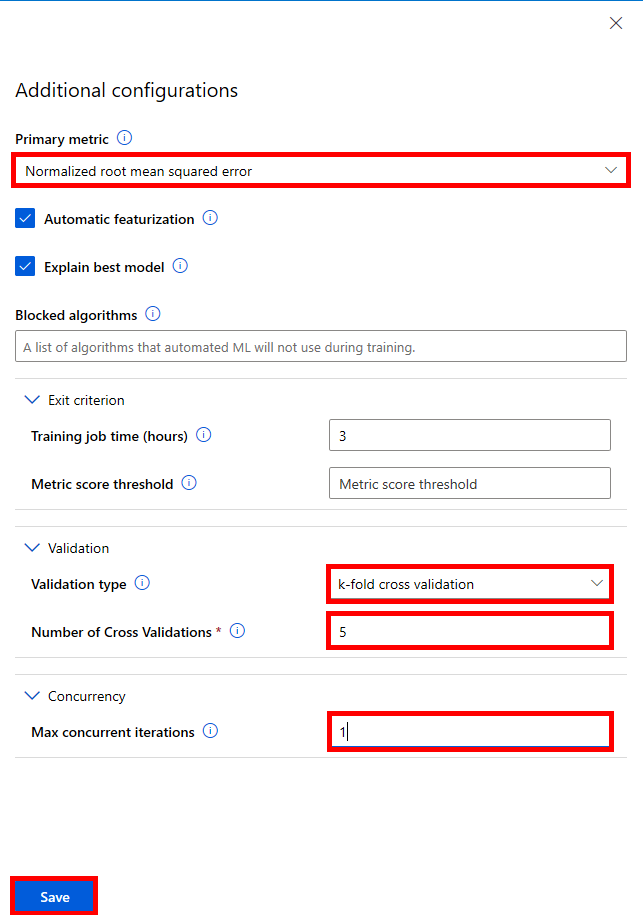
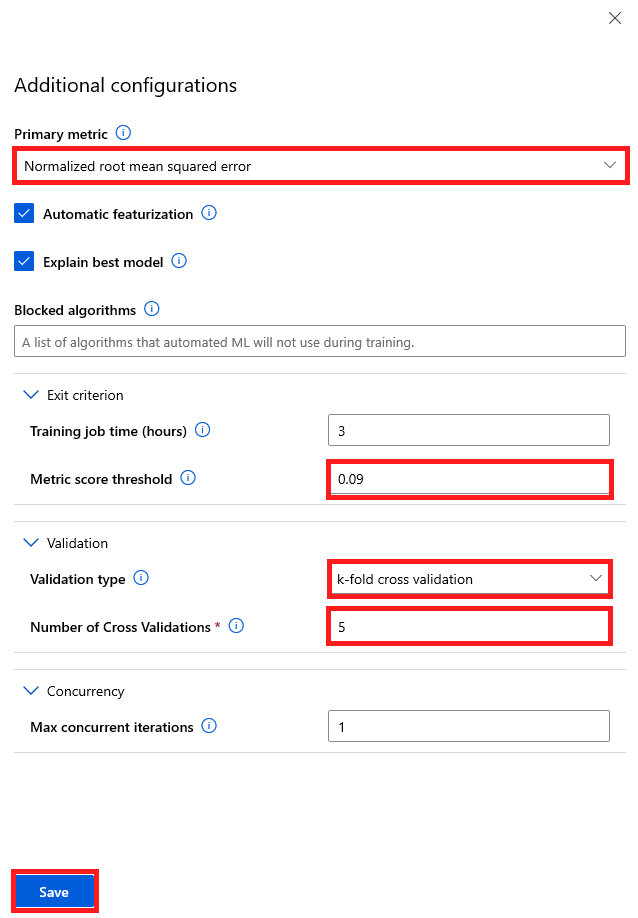
Consolidated Exercise 1 in ai experiment 3

diff --git a/ai-exp3/README.md b/ai-exp3/README.md
@@ -72,7 +72,7 @@ In this exercise, you will create a model that predicts battery failure from tim
    
    ![Confirm dataset creation](./media/007_ConfirmDataset.png)
 
-8) Now, you should be able to select the newly created dataset for your experiment. Select your newly created dataset and click **Next** to move to the experiment details page.
+8) Now, you should be able to select the newly created dataset for your experiment. Select the `targeting-formatted-dataset` and click **Next** to move to the experiment details page.
 
    ![Select the dataset](./media/008_SelectDataset.png)
 
@@ -91,12 +91,13 @@ In this exercise, you will create a model that predicts battery failure from tim
 11) Click **View additional configuration settings** to open advanced settings section. Provide the following settings:
 
    - Primary metric: **Normalized root mean squared error**
+   - Exit criterion > Metric score threashold: **0.07**
    - Validation > Validation type: **k-fold cross validation**
    - Validation > Number of Cross Validations: **5**
    - Concurency > Max concurrent iterations: **1**
     ![Configuring the Advanced Settings as described](./media/011_TaskConfigurationSettings.png)
 
-12) Select **Save** and **Finish** to run the experiment and begin automated machine learning process. 
+12) Select **Save** and then **Finish** to run the experiment and begin the automated machine learning process. 
 
     ![Start Automate ML run](./media/012_CreatingExperiment.png)
 
@@ -106,27 +107,42 @@ In this exercise, you will create a model that predicts battery failure from tim
 
 ### Task 2: Review the experiment run results
 
-1. The experiment will run for about _10 minutes_. Once it completes you should examine the chart to observe the model performance for the primary metric for different iterations.
+1. The experiment will run for about _15 minutes_. Once it completes you should check the `Models` tab on the `Run Detail` page to observe the model performance for the primary metric for different runs.
 
-   ![Review run details - graph view](./media/09_ReviewRunDetails_1.png)
+   ![Review run details - graph view](./media/021_RunDetails1.png)
 
-2. Scroll down to see a table view of different iterations and select the iteration with the best **normalized root mean square error** score. Note that the normalized root mean square error measures the error between the predicted value and actual value. In this case, the model with the lowest normalized root mean square error is the best model.
+2. In the table view of different models, notice at the top the iteration with the best **normalized root mean square error** score. Note that the normalized root mean square error measures the error between the predicted value and actual value. In this case, the model with the lowest normalized root mean square error is the best model.
 
-   ![Review run details - table view](./media/010_ReviewRunDetails_2.png)
+   ![Review run details - table view](./media/022_RunDetails2.png)
+
+3. Select **Experiments** on the left navigation pane and select the experiment `automl-regression` to see the list of available runs.
+
+   ![Open experiment runs table](./media/023_CheckExperimentRuns.png)
+
+4. Select the option to **Include child runs** to be able to examine  model performance for the primary metric of different runs. By default, the left chart describes the `mean_absolute_error` value for each run. Click on the pen icon on the right corner of the mean_absolute_error chart to configure the `normalized_root_mean_square_error` metric representation.
+
+   ![Review runs - chart view](./media/024_IncludeChildRuns.png)
+
 
 ### Task 3: Register the Best Model
 
-1. Return to the top of the `Run Details` screen and select **Deploy Best Model** as shown. Note that deployment consists of four steps: (1) _Register Best Model_, (2) Download _Scoring and Environment Script files_, (3) Create _Deployment Image_ using the downloaded script files, and (4) Deploy _Scoring Web Service_ using the created image.
+1. Return to the `Run Details` screen for Run 1 which you can find by scrolling down to the last row in the iterations table.
 
-   ![The Deploy Best Model button](./media/014_DeployBestModel.png)
+    ![Open run details](./media/031_RunDetails1.png)
 
-2. You register the best model with the Azure Machine Learning model registry so that you can retrieve it later when you want to use it for scoring. Select **Register Model** link. Once the registration process has completed, the link will change to the text `Model has been registered`.
+2. Select **Download best model** as shown and save the `model.pkl` file on your local disk.
 
-   ![Register Best Model](./media/015_RegisterModel.png)
+   ![The Download best model link](./media/032_DeployBestModel.png)
 
-3. The model registration, will create a new model in your Azure Machine Learning workspace with the same name as the experiment: `automl-regression`. To view this model from the Azure Machine Learning workspace, select **Models**.
+3. You need to register the best model with the Azure Machine Learning model registry so that you can retrieve it later when you want to use it for scoring. Select ![Models button](./media/033_Models.png) in the left navigation pane. 
 
-   ![Viewing the list of models in the Azure Machine Learning workspace](media/03-automl-registered-model.png)
+4. Click the **Register Model** button at the top of the `Model list`. Enter the name of your model: `automl-regression`, browse for the downloaded model file on the previous step and then press **Register**.
+
+   ![Register Model](./media/034_RegisterModel.png)
+
+5. Once the registration process has completed, you will be prompted with the message `Model created successfully` in the notification area at the top. Now you should be able to view this model in the **Models** list.
+
+   ![Viewing the list of models in the Azure Machine Learning workspace](media/035-automl-registered-model.png)
 
 4. If you see your model in the above list, you are now ready to continue on to the next exercise.
 
